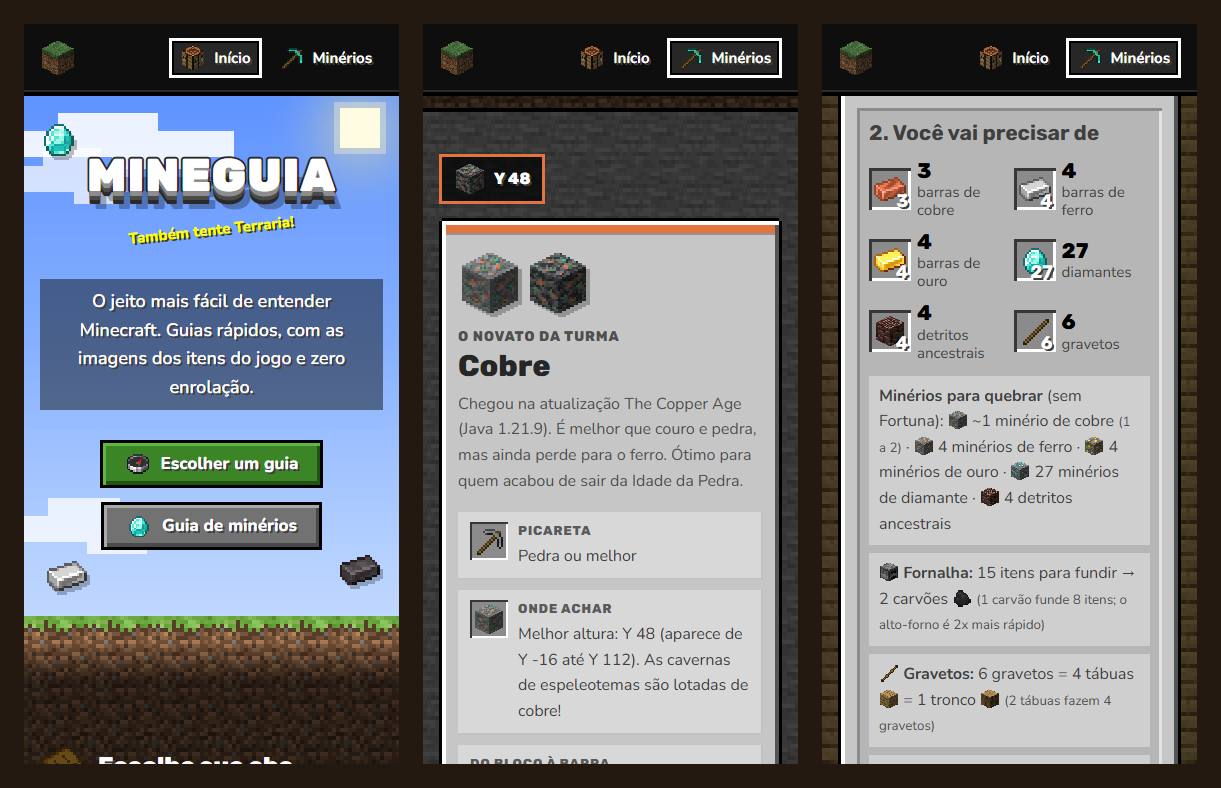
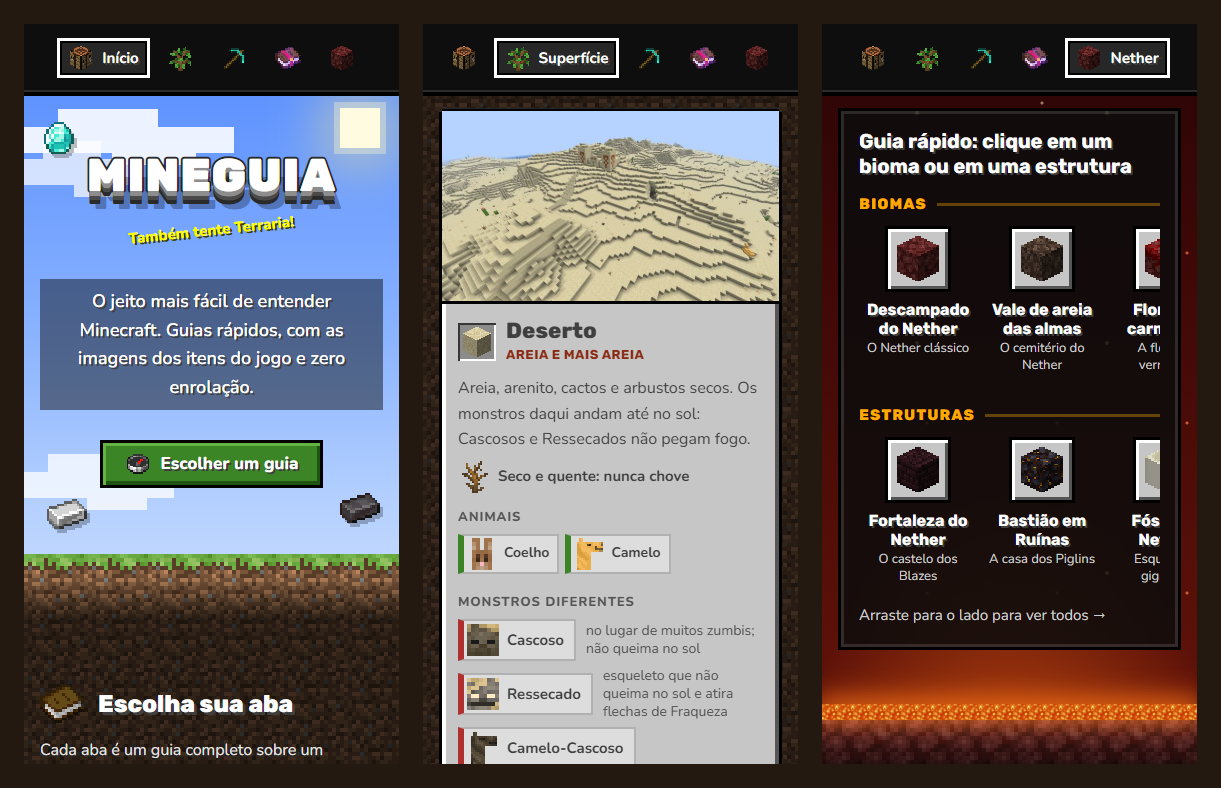
Atualiza o README com as edições do GitHub e capturas novas
- Junta as mudanças feitas no GitHub (link do site oficial e remoção
  das seções de publicação e de edição) com a seção da Superfície
- Sumário, tabelas e textos na nova ordem das abas
- Todas as imagens refeitas com o visual atual do site, incluindo a
  Superfície, o menu novo e a página inicial reorganizada

diff --git a/README.md b/README.md
@@ -17,13 +17,14 @@ imagens dos itens do próprio jogo, números conferidos e uma interface que pare
 
 </div>
 
-![Topo da página inicial do MineGuia: céu do Minecraft, logo, frase amarela e botões](docs/img/inicio.png)
+![Topo da página inicial do MineGuia: céu do Minecraft, logo, frase amarela e o botão para escolher um guia](docs/img/inicio.png)
 
 ## Sumário
 
 - [A proposta](#a-proposta)
 - [O que tem no site](#o-que-tem-no-site)
 - [Página inicial e as abas](#página-inicial-e-as-abas)
+- [A Superfície](#a-superfície)
 - [Guia até o Topo](#guia-até-o-topo)
 - [Calculadora de kit](#calculadora-de-kit)
 - [Receitas e dicas](#receitas-e-dicas)
@@ -33,9 +34,7 @@ imagens dos itens do próprio jogo, números conferidos e uma interface que pare
 - [No celular](#no-celular)
 - [Identidade visual](#identidade-visual)
 - [Como rodar](#como-rodar)
-- [Como publicar no GitHub Pages](#como-publicar-no-github-pages)
 - [Estrutura do projeto](#estrutura-do-projeto)
-- [Como editar e crescer o site](#como-editar-e-crescer-o-site)
 - [De onde vêm os dados](#de-onde-vêm-os-dados)
 - [Próximos guias](#próximos-guias)
 - [Tecnologias](#tecnologias)
@@ -61,6 +60,7 @@ O projeto segue seis princípios:
 | Parte | O que faz |
 |:--|:--|
 | **Página inicial** | Céu do Minecraft com o logo e as **abas**: cada aba é um guia, com título, descrição e uma ilustração montada com itens reais. |
+| **A Superfície** | Todos os biomas do mundo normal com os animais e os monstros de cada um, e as 20 estruturas — com onde encontrar cada uma, quem mora lá e o que vem nos baús —, mais um guia rápido para ir direto a cada uma. |
 | **Guia até o Topo** | Do cobre à netherite: quanto minério cada armadura e cada ferramenta pedem, onde achar cada minério, que picareta usar e o passo a passo da netherite. |
 | **Calculadora de kit** | Você marca as peças que quer e ela soma só o que você precisa — até o carvão da fornalha. |
 | **Receitas** | A posição de cada item na grade 3×3 da bancada e os upgrades na mesa de ferraria. |
@@ -71,13 +71,27 @@ O projeto segue seis princípios:
 
 ## Página inicial e as abas
 
-![Abas da página inicial: Guia até o Topo ativo e os próximos guias marcados como "em breve"](docs/img/abas.png)
+![Abas da página inicial: A Superfície, Guia até o Topo, Encantamentos sem mistério e Rumo ao Nether no ar, e os próximos guias marcados como "em breve"](docs/img/abas.png)
 
 - **Céu com chão de grama.** Nuvens andando, sol quadrado e uma fileira de blocos de grama. Ao rolar a página, você "desce" para a terra.
 - **Frase amarela.** Pulsa ao lado do logo, igual à tela inicial do jogo. São 18 frases diferentes; clique nela para trocar.
-- **Abas dos guias.** Os guias prontos (Guia até o Topo e Encantamentos sem mistério) ganham o selo "NOVO!". Os próximos aparecem como "EM BREVE", com a ilustração em tons apagados e um bloco de barreira no botão.
+- **Abas dos guias.** Os quatro guias prontos vêm primeiro, nesta ordem: A Superfície, Guia até o Topo, Encantamentos sem mistério e Rumo ao Nether, todos com o selo "NOVO!". Depois vêm os próximos, Poções para iniciantes e Derrotando o Ender Dragon, marcados como "EM BREVE", com a ilustração em tons apagados e um bloco de barreira no botão.
 - **Placa "Você sabia?"** Feita com a textura de tábuas de carvalho, mostra curiosidades do jogo que mudam com um clique.
 - **Rodapé de bedrock.** O fundo do mundo é o fim da página.
+
+## A Superfície
+
+![Topo da página A Superfície com o guia rápido de estruturas e biomas](docs/img/superficie.png)
+
+A primeira aba da página inicial, em `superficie.html`, com o céu azul e o chão de grama de sempre.
+
+- **Guia rápido.** No topo, as 20 estruturas separadas em *na superfície*, *na água* e *embaixo da terra*, mais os 10 tipos de bioma. Um clique leva direto ao card, que pisca para você achar na hora. O link fica no endereço (por exemplo, `superficie.html#estrutura-vila`).
+- **Os biomas.** Os 56 biomas do mundo normal, em 10 grupos: planícies, florestas, selvas, pântanos, lugares quentes e secos, taigas e neve, montanhas, rios e praias, oceanos e cavernas. Cada card tem uma captura de tela, uma descrição, o clima (chove, neva ou nunca chove), os animais, os **monstros diferentes** daquele bioma (como os Cascosos do deserto ou os Errantes da neve), as estruturas que aparecem nele e uma dica. Os oceanos e as suas versões profundas dividem o mesmo card. Já estão aqui as novidades da 26.x: a Floresta salpicada, as Cavernas de enxofre e mobs como o Cubo de Enxofre, o Ressecado e o Náutilo.
+- **As estruturas.** Vila, posto avançado de saqueadores, mansão da floresta, templos do deserto e da selva, cabana da bruxa, iglu, acampamento abandonado, portal em ruínas, ruínas de trilha, poço do deserto, monumento oceânico, ruínas oceânicas, naufrágio, tesouro enterrado, mina abandonada, masmorra, fortaleza, cidade ancestral e câmaras do desafio. Cada uma mostra onde encontrar (com os biomas clicáveis), os mobs, os destaques e **o que vem nos baús**, com quantidade e chance. Estruturas com vários baús têm uma aba para cada um: são 16 na vila (um por profissão e um por estilo de casa) e 7 nas câmaras do desafio, incluindo o Cofre e o Cofre Sombrio. Na arqueologia (areia e cascalho suspeitos), a porcentagem é a chance de sair o item em cada bloco.
+
+![Cards dos pântanos com os animais, os monstros diferentes e as estruturas](docs/img/biomas.png)
+
+![Card do Templo do Deserto com o baú da sala secreta e a areia suspeita](docs/img/estrutura.png)
 
 ## Guia até o Topo
 
@@ -196,7 +210,7 @@ Logo abaixo da trilha de picaretas, o painel **Quem é quem na vila** funciona d
 
 ![Seletor "Qual o melhor encantamento?" com a espada escolhida](docs/img/encantamentos.png)
 
-A segunda aba do site, em `encantamentos.html`.
+A terceira aba da página inicial, em `encantamentos.html`.
 
 - **Qual o melhor encantamento?** No topo, 18 itens para clicar: as quatro peças de armadura, élitros, escudo, espada, machado, picareta, pá, enxada, lança, maça, arco, besta, tridente, vara de pesca e tesoura. O item escolhido mostra a combinação ideal, o que pode escolher entre dois encantamentos que não combinam (como Multidisparo ou Perfuração na besta), os opcionais, uma dica e se ele vai na mesa de encantamentos ou só na bigorna. O link fica no endereço (por exemplo, `encantamentos.html#melhor-espada`).
 - **Como encantar.** A mesa de encantamentos com a receita e a posição das 15 estantes, a bigorna (e o famoso "Muito caro!"), onde conseguir livros encantados, o rebolo para tirar encantamentos e como ler os números romanos.
@@ -210,7 +224,7 @@ As combinações recomendadas partiram de uma imagem de "melhores encantamentos"
 
 ![Topo da página do Nether com o guia rápido de biomas e estruturas](docs/img/nether.png)
 
-A terceira aba do site, em `nether.html`, com o céu vermelho, as faíscas subindo da lava e a pedra-luminosa pendurada no teto.
+A quarta aba da página inicial, em `nether.html`, com o céu vermelho, as faíscas subindo da lava e a pedra-luminosa pendurada no teto.
 
 - **Guia rápido.** No topo, os 5 biomas e as 4 estruturas em ícones. Um clique leva direto ao card escolhido, que pisca para você achar na hora. O link fica no endereço (por exemplo, `nether.html#estrutura-bastiao`).
 - **Os biomas.** Descampado do Nether, Vale de areia das almas, Floresta carmesim, Floresta distorcida e Deltas de basalto. Cada card tem uma captura de tela do jogo, o que tem por lá, o nível de perigo, a cor da neblina, os blocos que você encontra, as estruturas que podem aparecer e uma dica. Os mobs vêm do mais comum para o mais raro, com a frequência marcada (muito comum, comum, pouco comum, raro) — e o Marchador aparece "na lava".
@@ -225,9 +239,9 @@ Os mobs, os biomas e as estruturas são chips clicáveis: do bioma você vai par
 
 ## No celular
 
-![O site no celular: página inicial, card do cobre e resultado da calculadora](docs/img/celular.png)
+![O site no celular: página inicial, card de um bioma da Superfície e guia rápido do Nether](docs/img/celular.png)
 
-O layout se adapta de 320 px até telas grandes. A trilha de picaretas, o painel dos aldeões, o seletor de encantamentos e o guia rápido do Nether viram faixas que deslizam para o lado, o menu mostra só os ícones (e o nome da página atual), os cards e a calculadora se empilham e os slots diminuem para caber na tela, sem rolagem lateral.
+O layout se adapta de 320 px até telas grandes. A trilha de picaretas, o painel dos aldeões, o seletor de encantamentos e os guias rápidos do Nether e da Superfície viram faixas que deslizam para o lado, o menu mostra só os ícones (e o nome da página atual), os cards e a calculadora se empilham e os slots diminuem para caber na tela, sem rolagem lateral.
 
 ## Identidade visual
 
@@ -242,7 +256,7 @@ O layout se adapta de 320 px até telas grandes. A trilha de picaretas, o painel
 - Dá para usar tudo pelo teclado, com foco visível; os slots da calculadora são botões com `aria-pressed`.
 - As imagens que trazem informação têm texto alternativo; as ilustrações decorativas ficam escondidas dos leitores de tela.
 - Respeita a opção "reduzir movimento" do sistema, desligando nuvens, itens boiando e animações.
-- É leve: 461 imagens que somam cerca de 1 MB, sem frameworks e sem etapa de build.
+- É leve para o tanto de conteúdo: 751 imagens que somam cerca de 4,2 MB, sem frameworks e sem etapa de build. As capturas de tela só carregam quando aparecem na tela.
 
 ## Como rodar
 
@@ -269,7 +283,6 @@ E acesse `http://localhost:8000` (ou o endereço que o `serve` mostrar).
 
 > A internet só é usada para carregar as fontes do Google Fonts. Sem conexão, o site usa as fontes do sistema.
 
-
 ## Estrutura do projeto
 
 ```text
@@ -278,12 +291,15 @@ SITE-MINECRAFT/
 ├── minerios.html          Guia até o Topo: quantidades, calculadora, receitas, aldeões e dicas
 ├── encantamentos.html     Encantamentos sem mistério: melhor combinação por item, como encantar e todos os encantamentos
 ├── nether.html            Rumo ao Nether: guia rápido, biomas, estruturas com os baús e mobs
+├── superficie.html        A Superfície: guia rápido, todos os biomas do mundo normal e as estruturas com os baús
 ├── css/
 │   ├── style.css          Estilo global: cores, painéis, slots, botões, tooltip, conquistas e página inicial
 │   ├── minerios.css       Estilo do guia, das camadas de minério, da calculadora e das receitas
 │   ├── aldeoes.css        Estilo do painel da vila e dos cards dos aldeões
 │   ├── encantamentos.css  Estilo da página de encantamentos
-│   └── nether.css         Estilo da página do Nether: céu vermelho, cards dos biomas e das estruturas, baús e mobs
+│   ├── mundo.css          Peças dos guias de mundo (Nether e Superfície): guia rápido, cards, chips de mobs e baús
+│   ├── nether.css         Estilo da página do Nether: céu vermelho, faíscas e a seção de mobs
+│   └── superficie.css     Estilo da página da Superfície: cards dos biomas e grupos de estruturas
 ├── js/
 │   ├── main.js            Usado em todas as páginas: frase amarela, tooltips, conquistas e curiosidades
 │   ├── dados-minerios.js  Todos os números e textos do guia (é aqui que se edita)
@@ -293,16 +309,18 @@ SITE-MINECRAFT/
 │   ├── dados-encantamentos.js  Todos os encantamentos e as melhores combinações por item
 │   ├── encantamentos.js   Monta o seletor, a seção "Como encantar" e a lista com filtro e ordem
 │   ├── dados-nether.js    Biomas, mobs, estruturas e o que vem em cada baú do Nether
-│   └── nether.js          Monta o guia rápido, os cards dos biomas, das estruturas e dos mobs
+│   ├── nether.js          Monta o guia rápido, os cards dos biomas, das estruturas e dos mobs
+│   ├── dados-superficie.js  Biomas, mobs, estruturas e o que vem em cada baú do mundo normal
+│   └── superficie.js      Monta o guia rápido, os cards dos biomas e das estruturas
 ├── assets/img/
 │   ├── itens/             Ícones de itens e blocos, com o ID do jogo no nome (ex.: diamond_sword.png)
 │   ├── texturas/          Texturas de fundo: terra, pedra, ardósia, netherrack, tijolos do Nether, lava, bedrock...
 │   ├── nether/            Capturas de tela dos biomas e das estruturas e o rosto de cada mob do Nether
+│   ├── superficie/        Capturas de tela dos biomas e das estruturas e o rosto de cada mob do mundo normal
 │   ├── aldeoes/           Retrato e rosto de cada aldeão
 │   └── gui/               Ícones do HUD (armadura e corações) e insígnias de nível dos aldeões
 └── docs/img/              Imagens deste README
 ```
-
 
 ## De onde vêm os dados
 
@@ -311,17 +329,18 @@ SITE-MINECRAFT/
 - As trocas dos aldeões são as da **Java Edition 26.3**, tiradas das tabelas de [Trading](https://minecraft.wiki/w/Trading) da Minecraft Wiki, e os nomes em português vêm do arquivo de idioma oficial do jogo. Elas já incluem as mudanças recentes: o cartógrafo e o mercador ambulante atualizados (1.21.5) e a etiqueta, que saiu do bibliotecário e foi para o mercador (26.1).
 - Os encantamentos (nível máximo, itens aceitos, quais não combinam, quais são tesouro ou maldição e os números de cada nível) saíram dos arquivos de dados do próprio jogo, versão 26.3, e os nomes são os oficiais em português.
 - O guia do Nether também saiu dos arquivos do jogo, versão 26.3: os mobs de cada bioma e a frequência de cada um vêm das regras de geração do mundo, as estruturas de cada bioma vêm das listas de estruturas, e as chances dos baús foram calculadas a partir das tabelas de loot (é a chance de o item aparecer em um baú). As capturas de tela são da Minecraft Wiki.
+- O guia da Superfície veio do mesmo lugar: os animais e os monstros de cada bioma, as estruturas de cada bioma e as chances dos baús e da arqueologia (calculadas das tabelas de loot, inclusive as tabelas dentro de tabelas dos cofres das câmaras do desafio). Os nomes de biomas, mobs e itens são os oficiais em português.
 - As contas da calculadora seguem as regras do jogo: 1 carvão funde 8 itens, 2 tábuas fazem 4 gravetos, 1 tronco vira 4 tábuas, cada barra de netherite pede 4 fragmentos e 4 barras de ouro, e copiar um molde custa 7 diamantes e 1 netherrack.
 
 ## Próximos guias
 
 | Guia | Situação |
 |:--|:--|
+| A Superfície | ✅ No ar |
 | Guia até o Topo — do cobre à netherite | ✅ No ar |
-| Sua primeira noite | ⏳ Em breve |
 | Encantamentos sem mistério | ✅ No ar |
-| Poções para iniciantes | ⏳ Em breve |
 | Rumo ao Nether | ✅ No ar |
+| Poções para iniciantes | ⏳ Em breve |
 | Derrotando o Ender Dragon | ⏳ Em breve |
 
 ## Tecnologias
